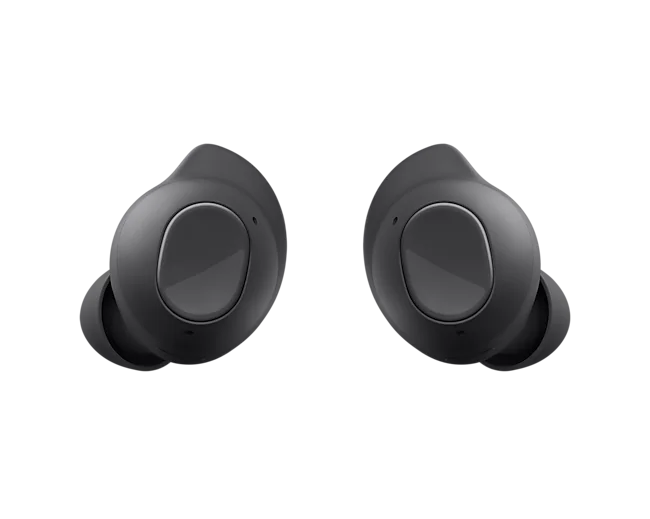
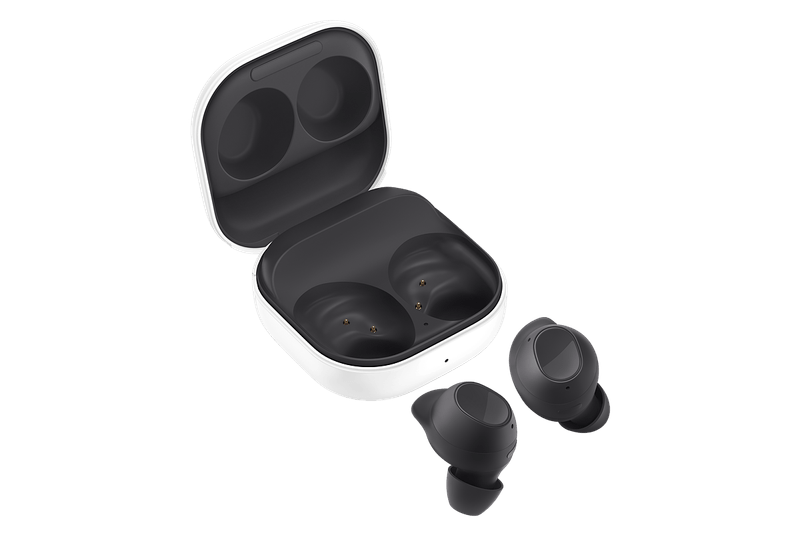
agregando un poco más de imagenes de los productos y pequeñas modificaciónes

Changed region(s): [[0.1231, 0.0308, 0.8923, 0.9865]]

diff --git a/database/seeders/20241300-product-seed.js b/database/seeders/20241300-product-seed.js
@@ -8,7 +8,7 @@ module.exports = {
           name: "Redmi Note 8",
           description:
             "Pantalla: 6.3', 1080 x 2340 pixels · Procesador: Snapdragon 665 2GHz · RAM: 4GB/6GB · Almacenamiento: 64GB/128GB",
-          price: 99999.99,
+          price: 54999.99,
           stock_quantity: 10,
           brand_id: 4,
           category_id: 1,
@@ -19,7 +19,7 @@ module.exports = {
           name: "Buds 250",
           description:
             "True wireless headphones con estuche de carga inalámbrica · Bluetooth® 5.0 technology · Resistente al agua · Botón tactil inteligente",
-          price: 86999.99,
+          price: 82999.99,
           stock_quantity: 10,
           brand_id: 2,
           category_id: 2,
@@ -107,7 +107,7 @@ module.exports = {
           name: "HUAWEI WATCH FIT Special Edition",
           description:
             "Pantalla AMOLED HD de 1.64 pulgadas · GPS integrado · Gestión profesional de la salud · Compatible con Android e iOS9 · Detección automática de entrenamiento",
-          price: 75999.99,
+          price: 75985.00,
           stock_quantity: 10,
           brand_id: 5,
           category_id: 2,
@@ -118,8 +118,8 @@ module.exports = {
           name: "Redmi Smart Band 2 GL Watch",
           description: 
             "Pantalla TFT dinámica de 1,47 pulgadas · Compatible con más de 30 modos de entrenamiento · Resistencia al agua de 5 ATM · Carga magnética en menos de 120 minutos",
-          price: 57999.00,
-          stock_quantity: 8,
+          price: 57499.00,
+          stock_quantity: 9,
           brand_id: 4,
           category_id: 2,
           color_id: 1, 
@@ -129,8 +129,8 @@ module.exports = {
           name: "Galaxy Buds FE Graphite",
           description: 
             "Desconéctate del mundo con la potente función ANC · Comodidad ergonómica · Batería de 30 horas de duración · Bluetooth v5.2 ",
-          price: 51999.00,
-          stock_quantity: 8,
+          price: 88900.00,
+          stock_quantity: 10,
           brand_id: 1,
           category_id: 2,
           color_id: 9, 
@@ -141,7 +141,7 @@ module.exports = {
           description: 
             "Un rendimiento extremo con pantalla avanzada · Neutral Engine de 16 nucleos · Pantalla Liquid Retina CDR de 12.9 pulgadas · Compatible con teclados bluetooth y Apple Pencil",
           price: 133999.00,
-          stock_quantity: 8,
+          stock_quantity: 18,
           brand_id: 3,
           category_id: 3,
           color_id: 9, 
@@ -151,8 +151,8 @@ module.exports = {
           name: "MatePad T10s",
           description: 
             "Diseño con una Pantalla táctil  10.1 pulgadas Full HD con protección ocular · RAM de GB y ROM 64/128 GB · Bateria de 5.100 mAh · Bluetooth 4.2 ",
-          price: 999.00,
-          stock_quantity: 8,
+          price: 98724.00,
+          stock_quantity: 10,
           brand_id: 5,
           category_id: 3,
           color_id: 9, 
@@ -163,7 +163,7 @@ module.exports = {
           description: 
             "Vistas amplias y luminosas incluso al aire libre con Vision Booster · Equipado con chipset Exynos 1380 de alto rendimiento · Resistencia al agua y al polvo · Conectividad con Physical SIM y un eSIM adicional",
           price: 110000.00,
-          stock_quantity: 20,
+          stock_quantity: 15,
           brand_id: 1,
           category_id: 3,
           color_id: 9, 
@@ -174,7 +174,7 @@ module.exports = {
           description: 
             "Con Book cover Keyboard y S Pen · Bateria de 11200 mAh · Dynamic AMOLED 2X con Brillo uniforme · Tres tamaños a elección y dos colores inspirados en la naturaleza",
           price: 129999.00,
-          stock_quantity: 18,
+          stock_quantity: 20,
           brand_id: 1,
           category_id: 3,
           color_id: 2, 
@@ -195,7 +195,7 @@ module.exports = {
           name: "MateBook D14 2024",
           description: 
             "Pantalla HUAWEI FullView con confort ocular · Procesador Intel Core de 12Gen · Resolución 1920 x 1200 · Bluetooth 5.1",
-          price: 68999.00,
+          price: 68799.00,
           stock_quantity: 11,
           brand_id: 5,
           category_id: 4,
@@ -206,18 +206,18 @@ module.exports = {
           name: "Galaxy Book3 Pro 360",
           description: 
             "Diseño ligero y fino con Bateria duradera · Rendimiento de siguiente nivel con 13th Gen Intel Core · Procesador Intel Core i7-1360P · Sistema Operativo Windows 11 Home",
-          price: 11999.00,
+          price: 119999.00,
           stock_quantity: 16,
           brand_id: 1,
           category_id: 4,
-          color_id: 1, 
+          color_id: 9, 
         },
         {
           id: 20,
           name: "Galaxy Book3",
           description: 
             "Pantalla TFT dinámica de 1,47 pulgadas · Compatible con más de 30 modos de entrenamiento · Procesador Intel Core i7-1355U · Sistema Operativo Windows 11 Home",
-          price: 29999.00,
+          price: 110864.00,
           stock_quantity: 8,
           brand_id: 1,
           category_id: 4,

diff --git a/database/seeders/20241400-productImages-seed.js b/database/seeders/20241400-productImages-seed.js
@@ -7,9 +7,6 @@ module.exports = {
           id: 1, 
           product_id: 1, 
           image_filename: "1701897974058_img.png",
-          // image_filename: "", 
-          // image_filename: "", 
-          // image_filename: "" 
         },
         { 
           id: 2,
@@ -24,7 +21,7 @@ module.exports = {
         { 
           id: 4,
           product_id: 4,
-          image_filename: "1702546563559_img.png",
+          image_filename: "17025465635590_img.png",
         },
         { 
           id: 5,
@@ -59,7 +56,7 @@ module.exports = {
         { 
           id: 11, 
           product_id: 11,
-          image_filename: "12315494856_img.png",
+          image_filename: "12315494856_img.jpg",
         },
         { 
           id: 12, 
@@ -79,7 +76,7 @@ module.exports = {
         { 
           id: 15, 
           product_id: 15, 
-          image_filename: "13215465489512_img.png",
+          image_filename: "189199-800_img.png",
         },
         { 
           id: 16, 
@@ -99,12 +96,12 @@ module.exports = {
         { 
           id: 19, 
           product_id: 19, 
-          image_filename: "165947800645_img.png",
+          image_filename: "165947800640_img.webp",
         },
         { 
           id: 20,
           product_id: 20,
-          image_filename: "12341536358831_img.png",
+          image_filename: "12341536358832_img.webp",
         },
       ],
       {}

diff --git a/public/css/productDetail.css b/public/css/productDetail.css
@@ -121,6 +121,7 @@ p.p-div {
   display: flex;
   overflow-x: auto;
   border: 2px solid #bcbcbc;
+  border-radius: 6px;
 }
 
 #image-carousel img {
